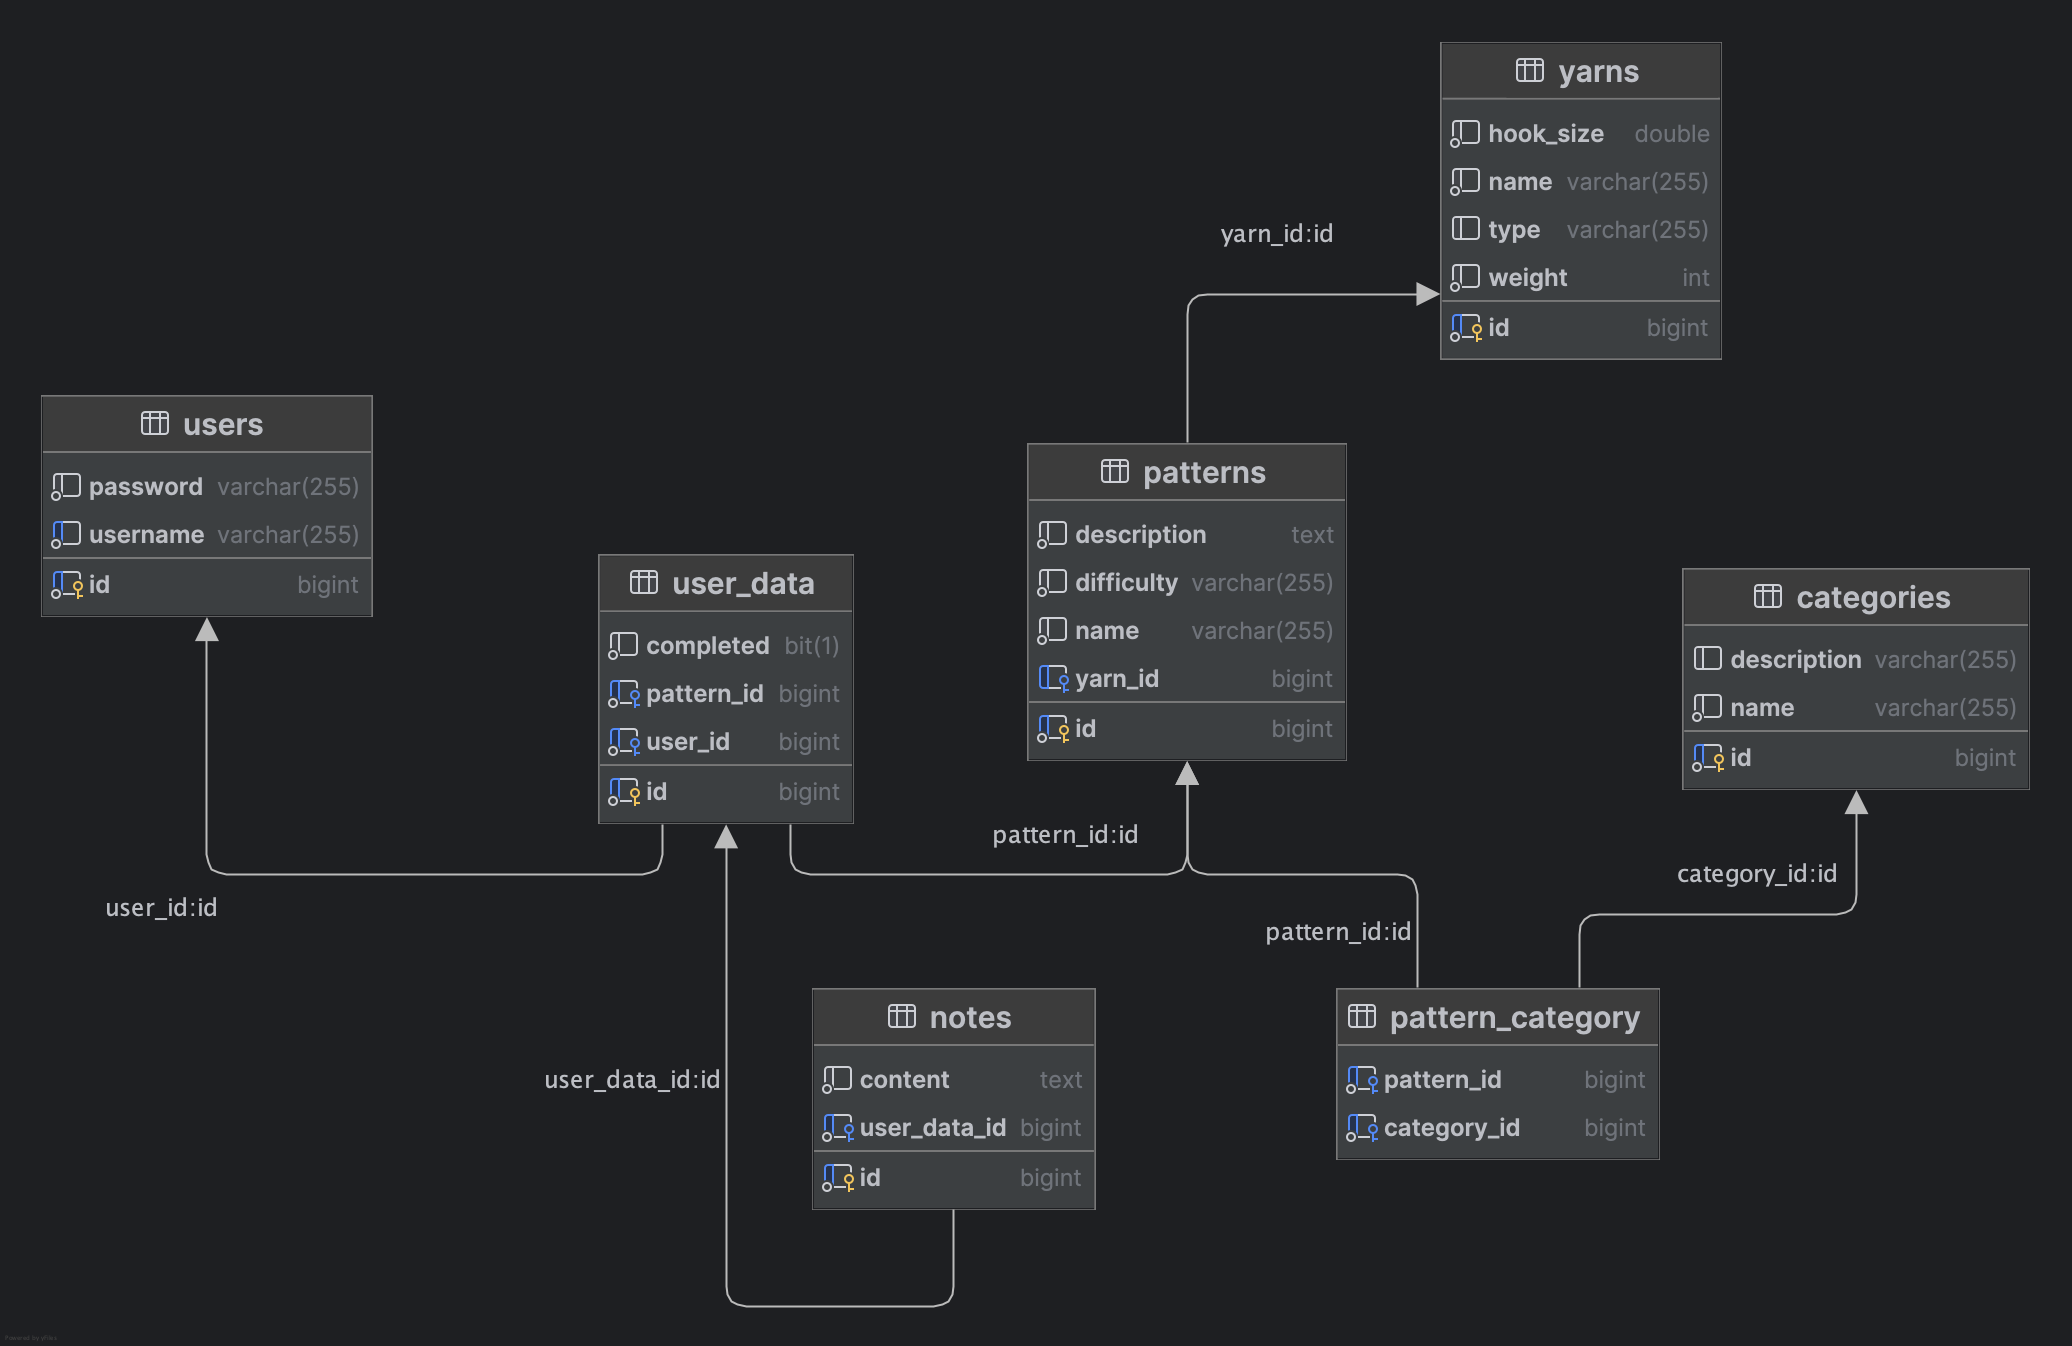
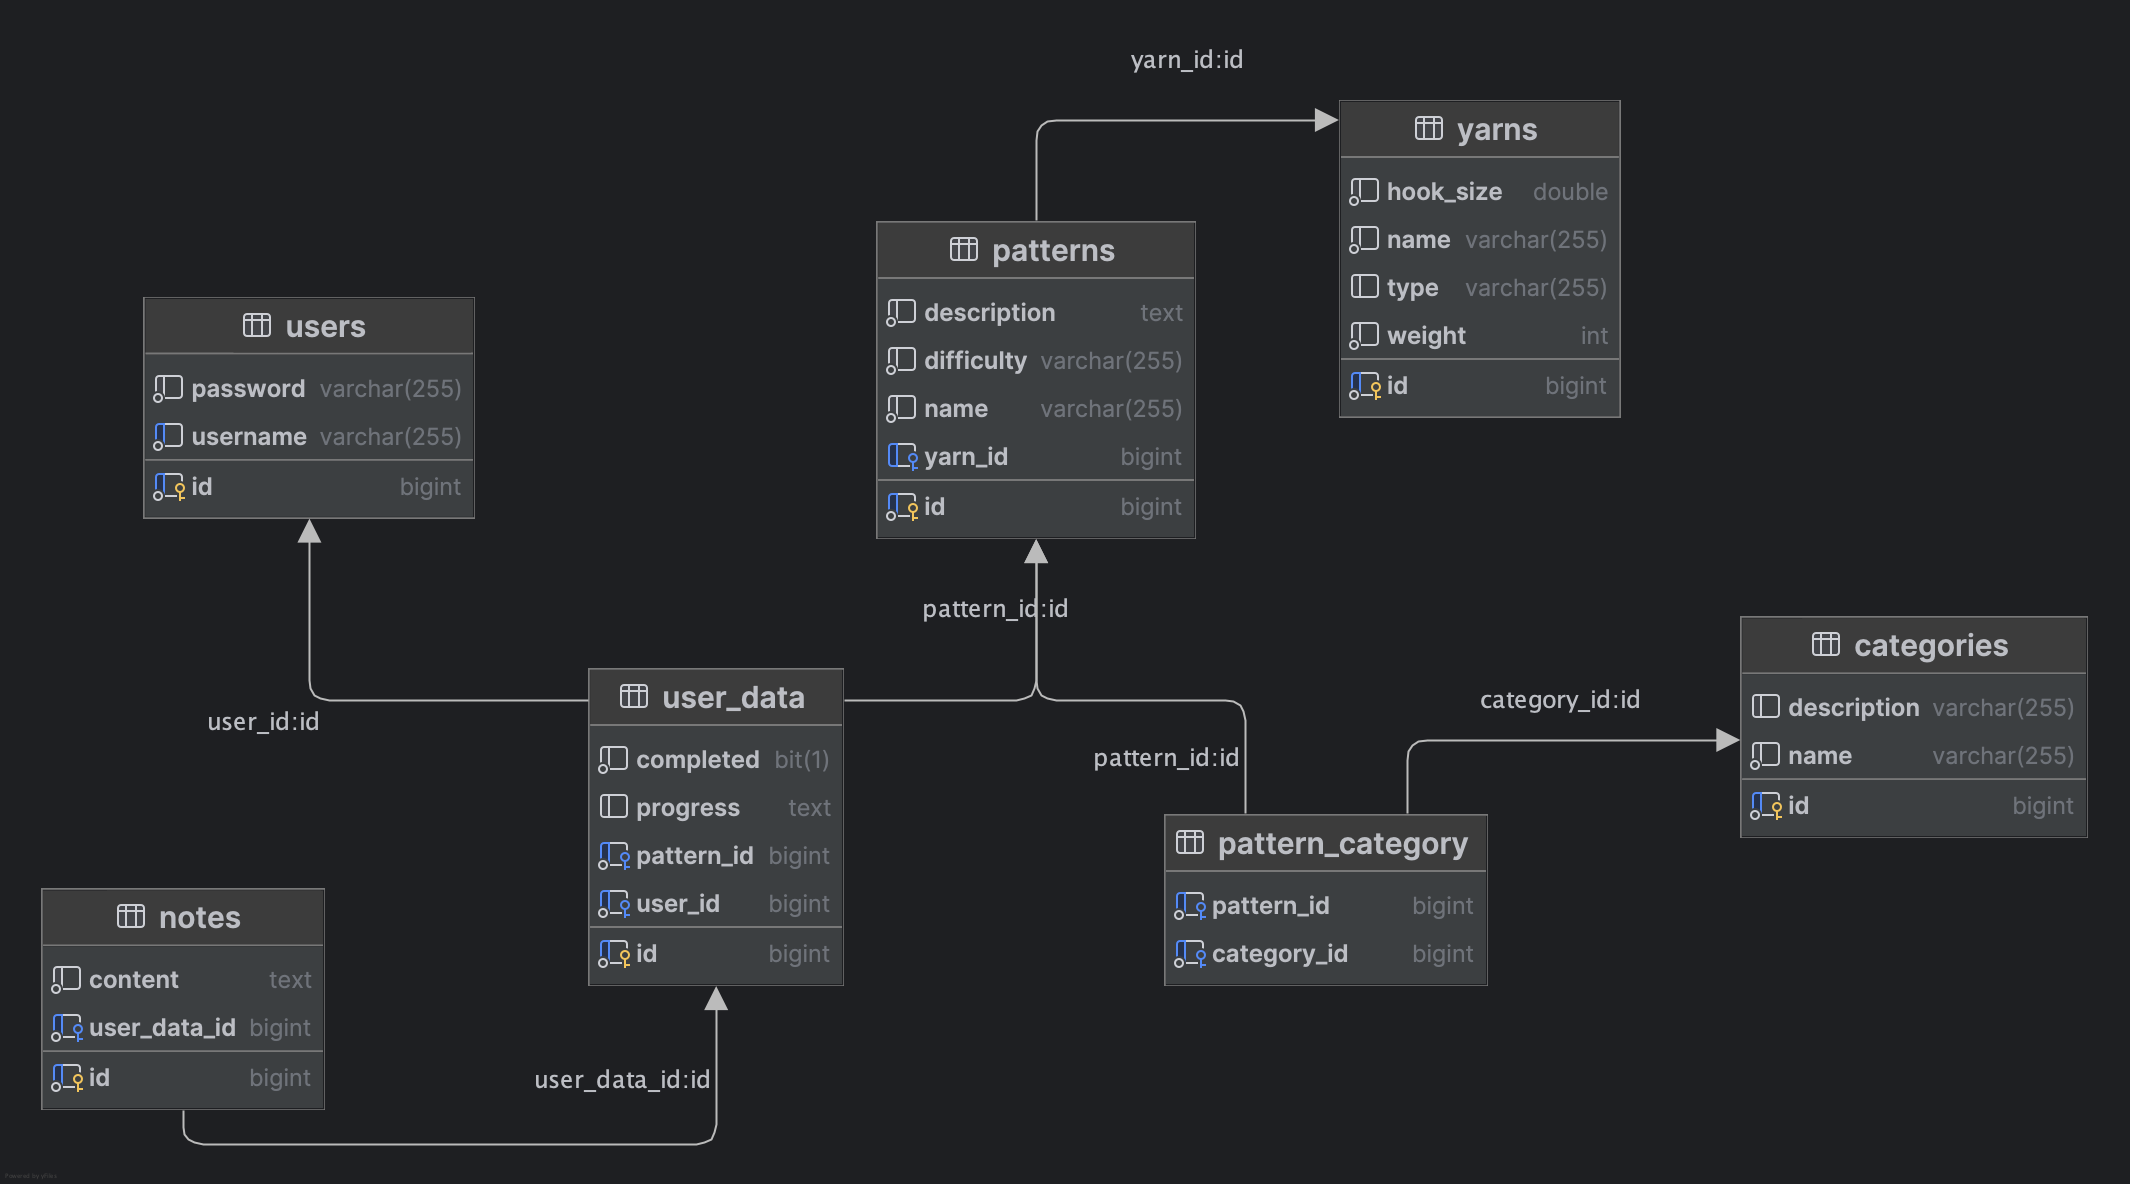
add progress tracker

diff --git a/src/main/java/pl/coderslab/crochetproject/service/UserDataService.java b/src/main/java/pl/coderslab/crochetproject/service/UserDataService.java
@@ -1,5 +1,7 @@
 package pl.coderslab.crochetproject.service;
 
+import com.fasterxml.jackson.core.JsonProcessingException;
+import com.fasterxml.jackson.databind.ObjectMapper;
 import lombok.AllArgsConstructor;
 import org.springframework.stereotype.Service;
 import pl.coderslab.crochetproject.dto.UserLibraryDTO;
@@ -21,6 +23,7 @@ public class UserDataService {
     private final UserDataRepository userDataRepository;
     private final UserRepository userRepository;
     private final PatternRepository patternRepository;
+    private final ObjectMapper objectMapper; // for storing JSON
 
     public List<UserLibraryDTO> getUserLibrary(Long userId) {
         List<UserData> userData = userDataRepository.findAllDataByUserId(userId);
@@ -47,6 +50,12 @@ public class UserDataService {
         UserData userData = new UserData();
         userData.setUser(user);
         userData.setPattern(pattern);
+
+        // set all steps of progress to false by default
+        String[] steps = pattern.getDescription().split("\n");
+        boolean[] progress = new boolean[steps.length];
+        userData.setProgress(serializeProgress(progress));
+
         userDataRepository.save(userData);
         return "Pattern was successfully added to user's library";
     }
@@ -69,6 +78,68 @@ public class UserDataService {
         userData.setCompleted(isCompleted);
         userDataRepository.save(userData);
         return "Pattern was marked as " + (isCompleted ? "completed" : "not completed") + " for this user";
+    }
+
+    public boolean[] getProgress(Long userId, Long patternId) {
+        UserData userData = userDataRepository.findByUserIdAndPatternId(userId, patternId);
+        if (userData == null) {
+            throw new ResourceNotFoundException("Pattern with id " + patternId + " not found in user's library");
+        }
+        return deserializeProgress(userData.getProgress());
+    }
+
+    public String updateProgress(Long userId, Long patternId, int stepIndex) {
+        UserData userData = userDataRepository.findByUserIdAndPatternId(userId, patternId);
+        if (userData == null) {
+            throw new ResourceNotFoundException("Pattern with id " + patternId + " not found in user's library");
+        }
+
+        String[] steps = userData.getPattern().getDescription().split("\n");
+        if (stepIndex < 0 || stepIndex >= steps.length) {
+            throw new IllegalArgumentException("Invalid step index: " + stepIndex);
+        }
+
+        boolean[] progress = deserializeProgress(userData.getProgress());
+        // also mark all steps before the specified step as completed
+        for (int i = 0; i < progress.length; i++) {
+            if (i <= stepIndex) {
+                progress[i] = true;  // also mark all steps before the specified step as completed
+            } else {
+                progress[i] = false; // reset all steps after the specified step (if some other step was set up before)
+            }
+        }
+        userData.setProgress(serializeProgress(progress));
+
+        // check if all steps are completed, to also mark the whole pattern as completed
+        boolean allCompleted = true;
+        for (boolean step : progress) {
+            if (!step) {
+                allCompleted = false;
+                break;
+            }
+        }
+        userData.setCompleted(allCompleted);
+
+        userDataRepository.save(userData);
+        return "Progress was successfully updated";
+    }
+
+    // convert the boolean array to a JSON string for storage
+    private String serializeProgress(boolean[] progress) {
+        try {
+            return objectMapper.writeValueAsString(progress);
+        } catch (JsonProcessingException e) {
+            throw new RuntimeException("Failed to serialize progress", e);
+        }
+    }
+
+    // converts the JSON string back to a boolean array to use in the application
+    private boolean[] deserializeProgress(String progress) {
+        try {
+            return objectMapper.readValue(progress, boolean[].class);
+        } catch (JsonProcessingException e) {
+            throw new RuntimeException("Failed to deserialize progress", e);
+        }
     }
 
 }

diff --git a/src/main/java/pl/coderslab/crochetproject/controller/UserDataController.java b/src/main/java/pl/coderslab/crochetproject/controller/UserDataController.java
@@ -34,4 +34,14 @@ public class UserDataController {
     public String toggleCompleted(@RequestParam Long userId, @RequestParam Long patternId) {
         return userDataService.toggleCompleted(userId, patternId);
     }
+
+    @GetMapping("/progress/{userId}/{patternId}")
+    public boolean[] getProgress(@PathVariable Long userId, @PathVariable Long patternId) {
+        return userDataService.getProgress(userId, patternId);
+    }
+
+    @PostMapping("/progress/{userId}/{patternId}")
+    public String updateProgress(@PathVariable Long userId, @PathVariable Long patternId, @RequestParam int stepIndex) {
+        return userDataService.updateProgress(userId, patternId, stepIndex);
+    }
 }

diff --git a/src/main/java/pl/coderslab/crochetproject/exceptions/GlobalExceptionHandler.java b/src/main/java/pl/coderslab/crochetproject/exceptions/GlobalExceptionHandler.java
@@ -20,4 +20,9 @@ public class GlobalExceptionHandler {
     public ResponseEntity<String> handlePatternAlreadyExitsException(ResourceAlreadyExitsException e) {
         return new ResponseEntity<>(e.getMessage(), HttpStatus.CONFLICT);
     }
+
+    @ExceptionHandler(java.lang.IllegalArgumentException.class)
+    public ResponseEntity<String> handleIllegalArgumentException(IllegalArgumentException e) {
+        return new ResponseEntity<>(e.getMessage(), HttpStatus.BAD_REQUEST);
+    }
 }

diff --git a/src/main/java/pl/coderslab/crochetproject/model/users/UserData.java b/src/main/java/pl/coderslab/crochetproject/model/users/UserData.java
@@ -21,7 +21,10 @@ public class UserData {
     private Long id;
     @NotNull
     @Column(nullable = false)
-    private boolean completed;  // track completion status for each user
+    private boolean completed = false;  // track completion status for each user
+    @Lob
+    @Column(columnDefinition = "TEXT")
+    private String progress;
 
     @ManyToOne // multiple UserData records for one user
     @JoinColumn(name = "user_id", nullable = false)
